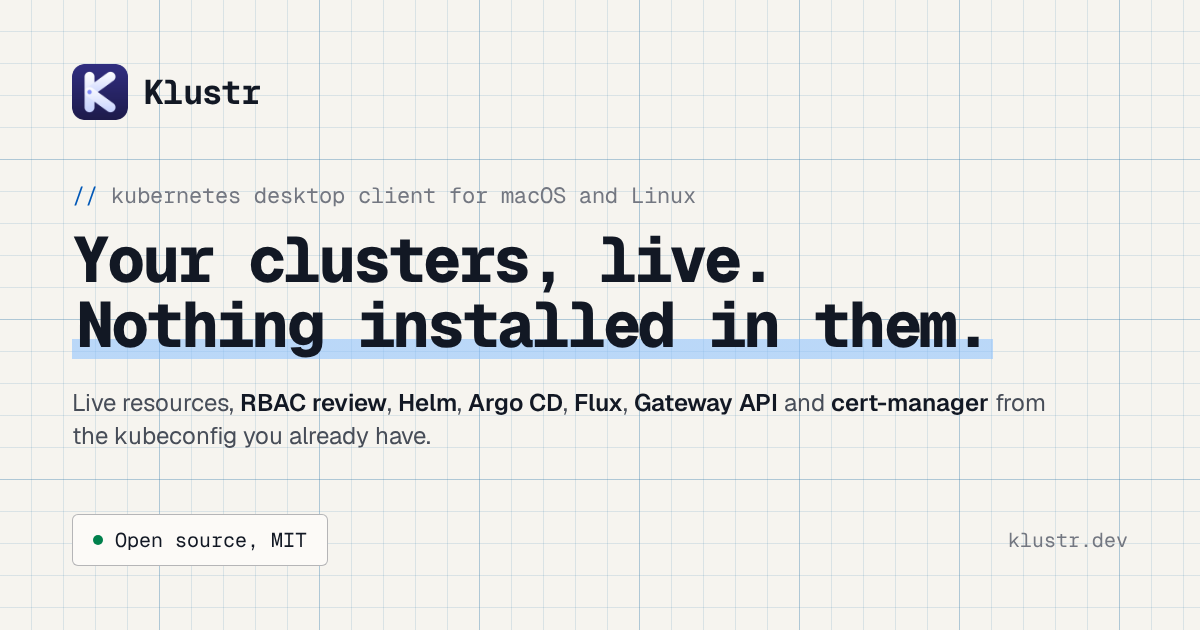
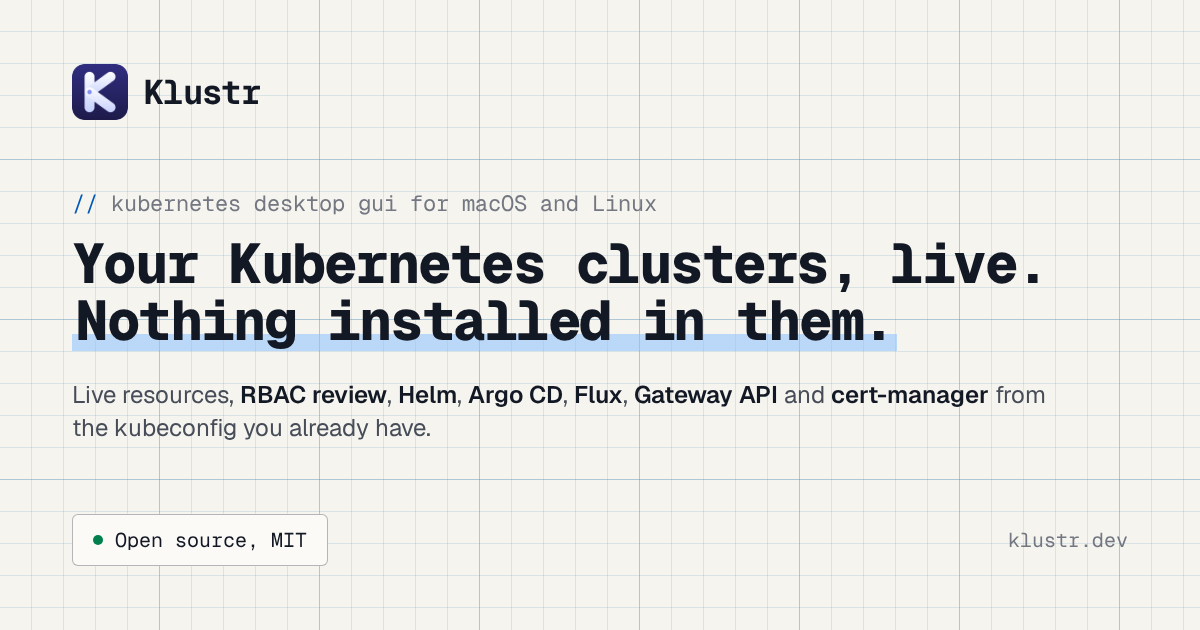
feat(site): name the category and the integrations in the landing copy
"Kubernetes" enters the H1, the lede opens with a one-sentence definition
of what Klustr is, each workflow heading starts with the product it
describes (Helm, Argo CD, Istio, …), the tour and compare sections get a
sentence that says Kubernetes GUI and Lens alternative in plain words, and
the social card follows the new headline.

diff --git a/site/og-template.html b/site/og-template.html
@@ -65,7 +65,7 @@
       .eyebrow::before { content: "// "; color: var(--accent); }
       h1 {
         font-family: var(--mono);
-        font-size: 64px;
+        font-size: 56px;
         font-weight: 800;
         line-height: 1.02;
         letter-spacing: -0.045em;
@@ -109,8 +109,8 @@
       </div>
 
       <div>
-        <p class="eyebrow">kubernetes desktop client for macOS and Linux</p>
-        <h1>Your clusters, live.<br /><span class="marker">Nothing installed in them.</span></h1>
+        <p class="eyebrow">kubernetes desktop gui for macOS and Linux</p>
+        <h1>Your Kubernetes clusters, live.<br /><span class="marker">Nothing installed in them.</span></h1>
         <p class="features">
           Live resources, <b>RBAC review</b>, <b>Helm</b>, <b>Argo CD</b>, <b>Flux</b>, <b>Gateway API</b> and
           <b>cert-manager</b> from the kubeconfig you already have.
